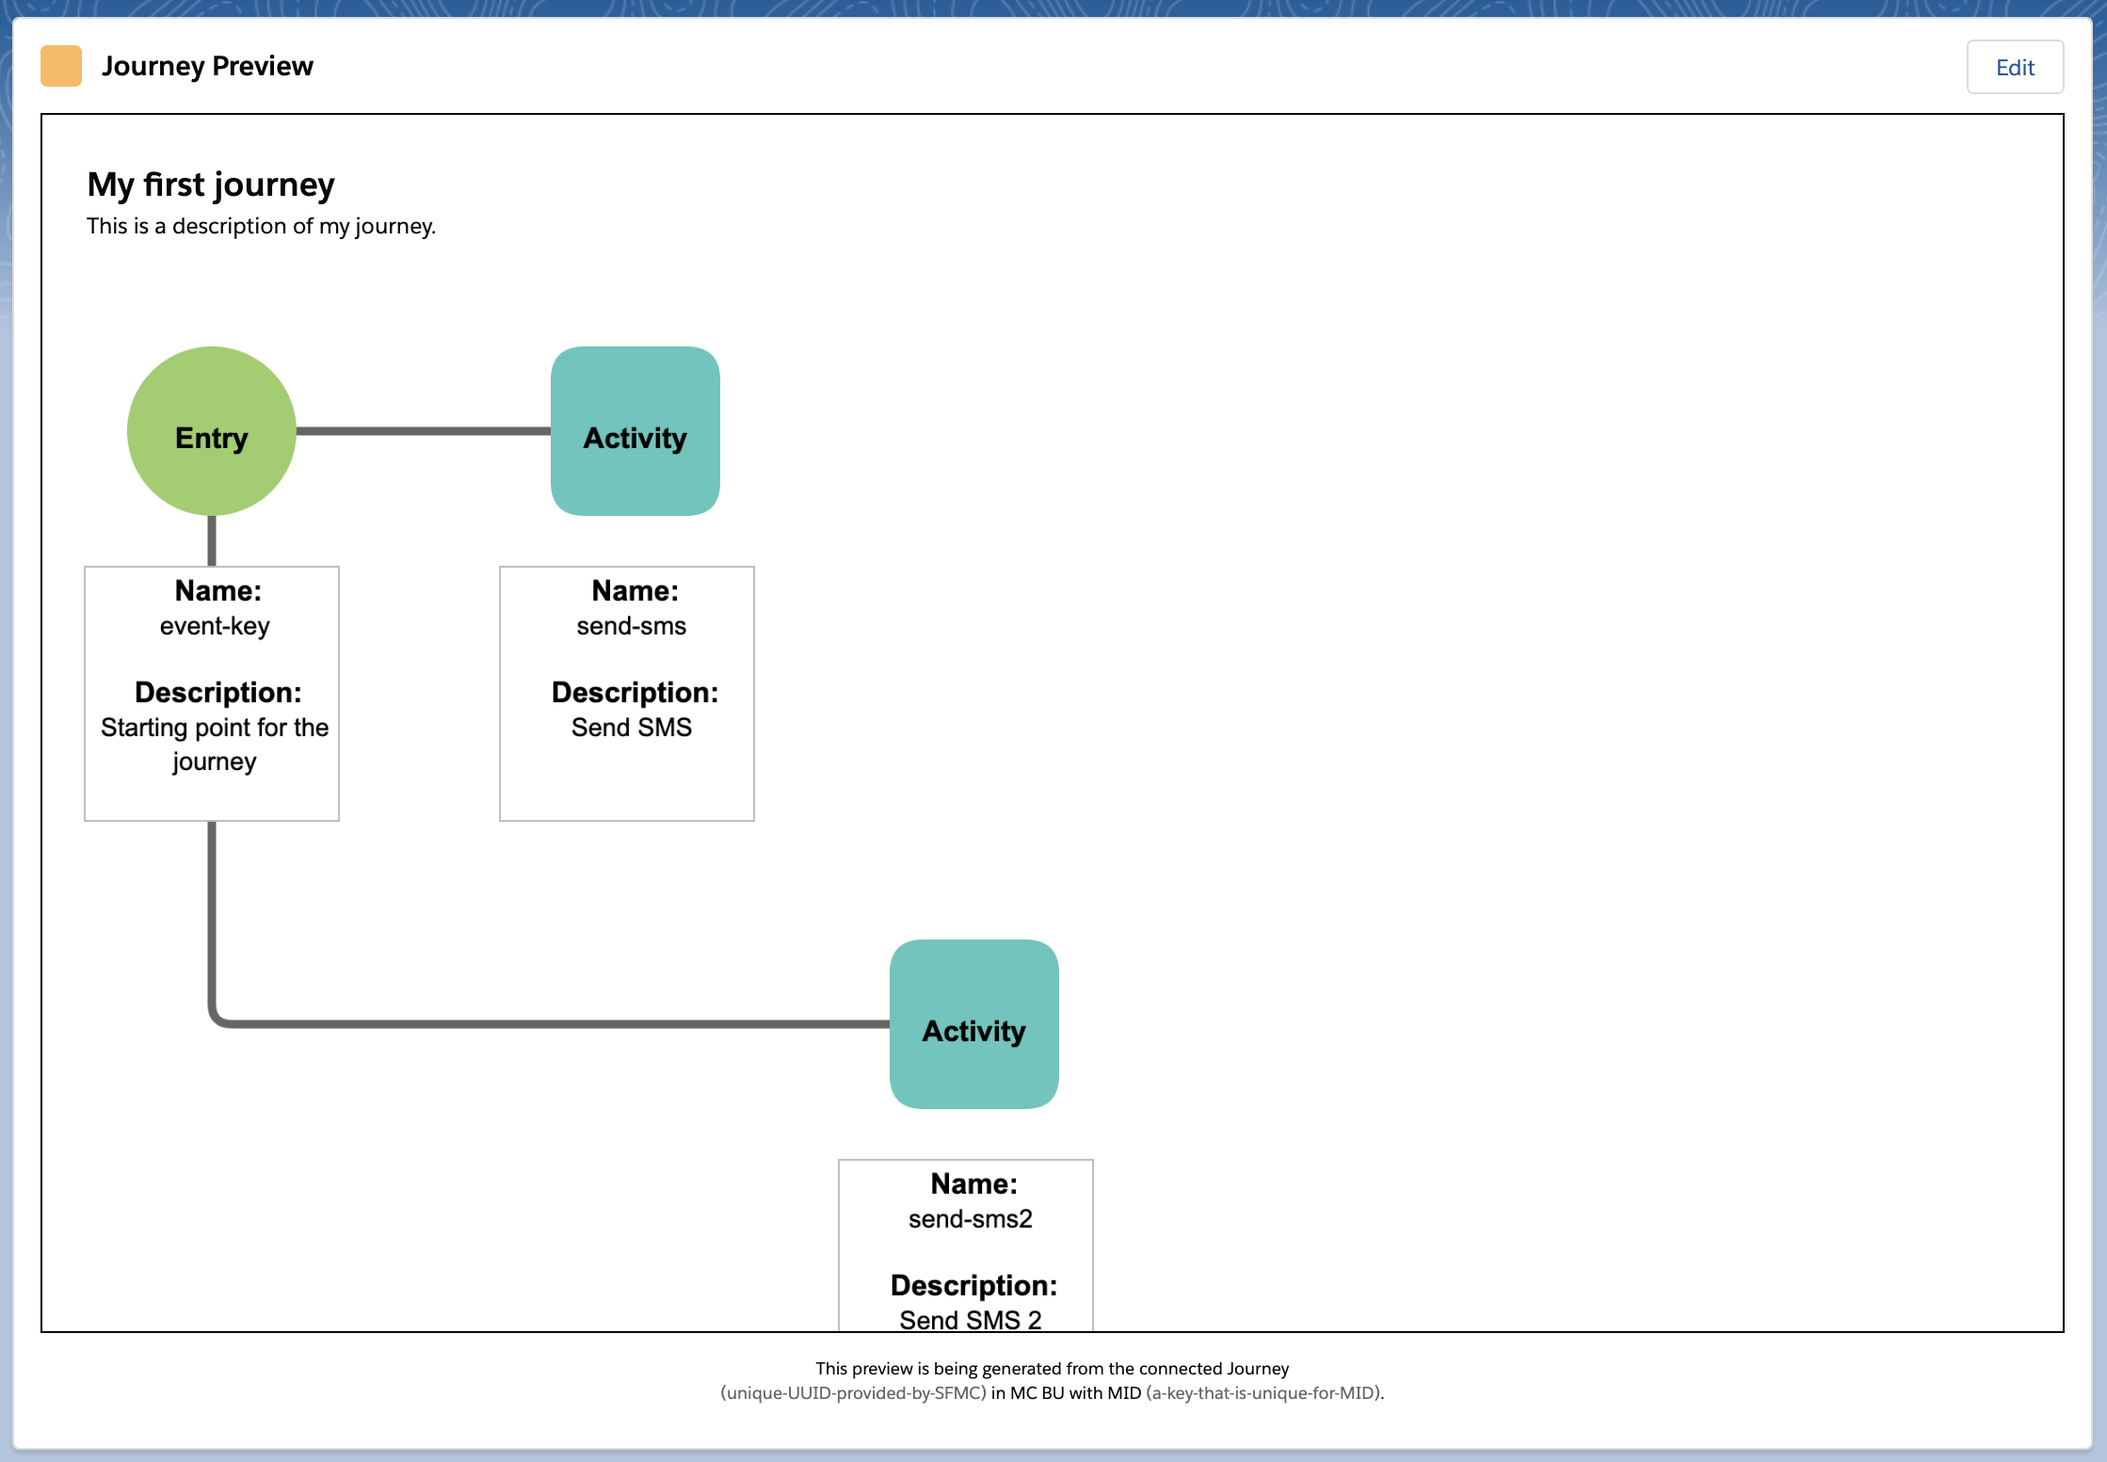
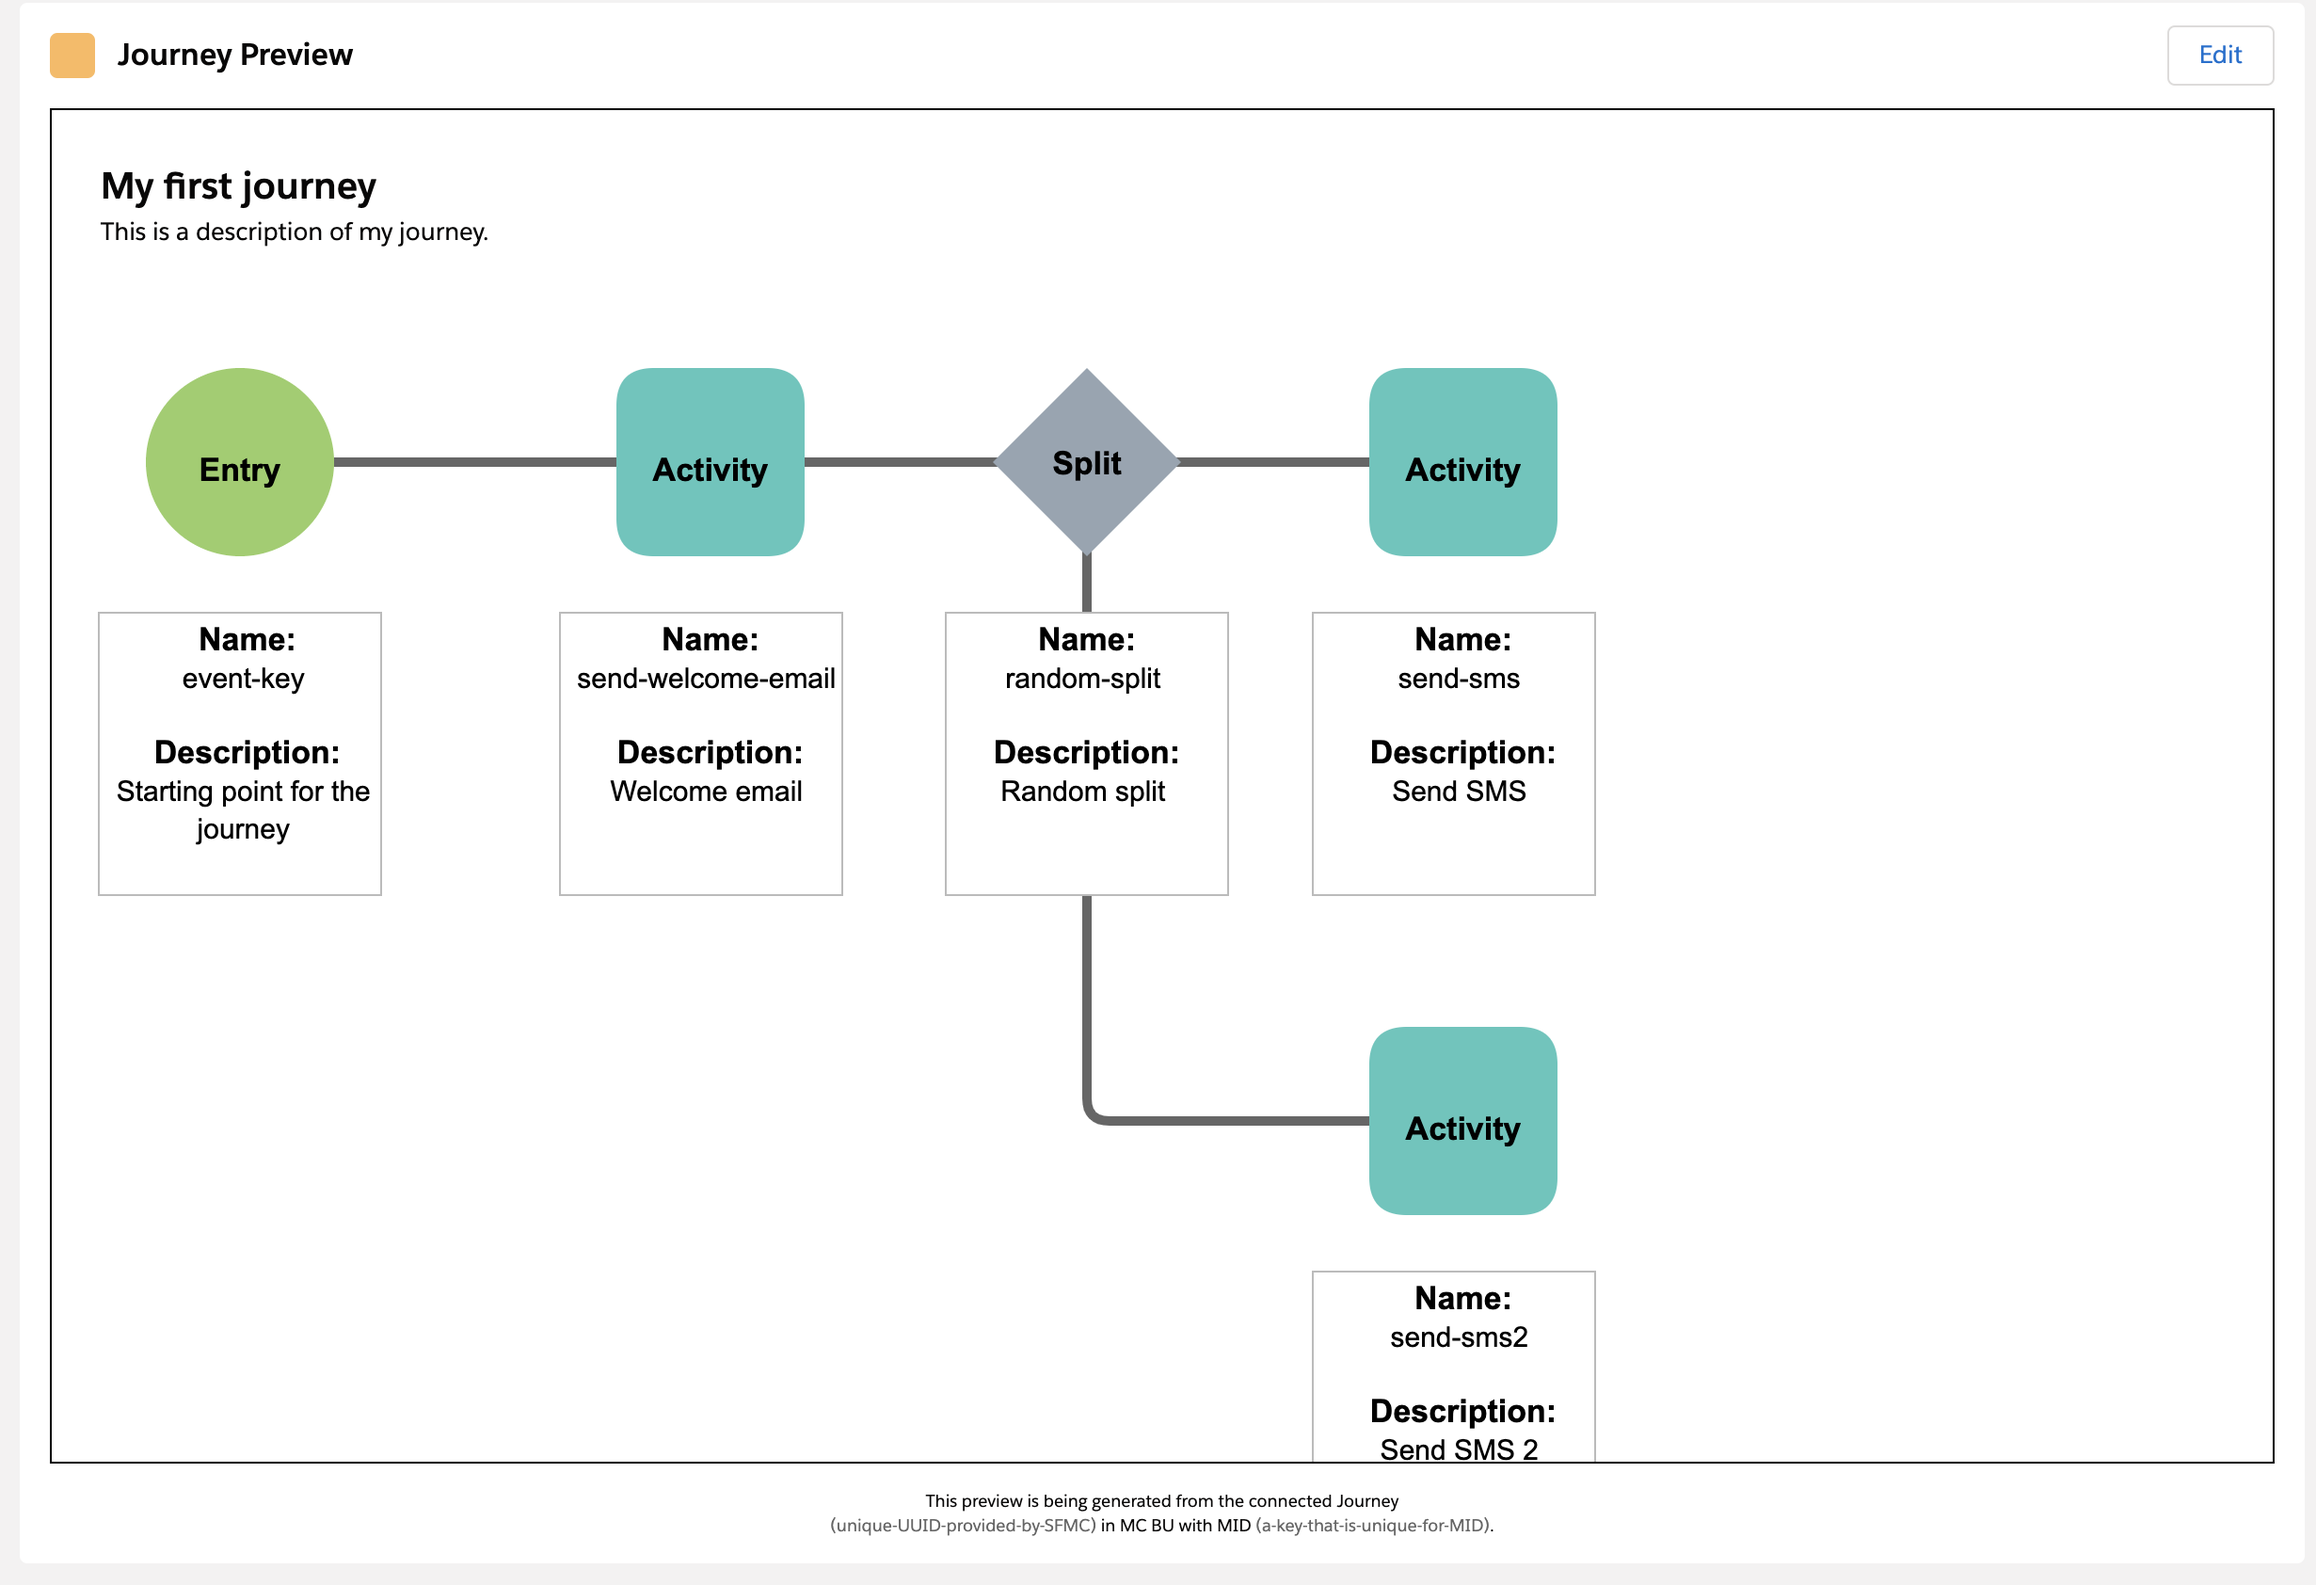
Finished branching logic

diff --git a/force-app/main/default/lwc/lwcJourneyBuilderPreview/lwcJourneyBuilderPreview.js b/force-app/main/default/lwc/lwcJourneyBuilderPreview/lwcJourneyBuilderPreview.js
@@ -365,6 +365,7 @@ export default class LwcJourneyBuilderPreview extends NavigationMixin(LightningE
 
         const connectorColor = "#666";
         const connectorWidth = 5;
+        const connectorRadius = 12;
 
         const eventEntryColor = '#97cf66';
         const activityEntryColor = '#52c7bc';
@@ -588,6 +589,10 @@ export default class LwcJourneyBuilderPreview extends NavigationMixin(LightningE
 
         //Connector type
         let connectorType = "straight";
+        let currentBranchDown = 0;
+
+        //Clear Drawn items
+        drawnPathItems.clear();
 
         //For each path...
         for (let currentPath of drawPaths) { 
@@ -604,16 +609,46 @@ export default class LwcJourneyBuilderPreview extends NavigationMixin(LightningE
                 let previousActivityX = eventList.get(previousActivityKey).x;
                 let previousActivityY = eventList.get(previousActivityKey).y;
 
+                let previousActivityType = currentPath[pathStep - 1].type;
+
+                console.log(drawnPathItems);
+
+                //Ensure we're not duplicating efforts, and if we are, move onto the next node
+                if (drawnPathItems.has(currentActivityKey)) { 
+                    console.log("Repeating a drawn activity, so skipping");
+                    continue; 
+                } else {
+                    drawnPathItems.set(currentActivityKey, currentPath[pathStep]);
+                }
+
                 //Debug
                 console.log ("Current Activity: " + currentActivityKey + " Previous Activity: " + previousActivityKey);
 
-                // Draw Connector between the two
-                let start = { "x": currentActivityX + shapeSize / 2 + shapePadding, "y": currentyActivityY + shapeSize / 2 };
-                let end = { "x": previousActivityX, "y": previousActivityY };
-                this.drawElbow(canvasContext, connectorType, start, end, 12, connectorColor, connectorWidth );
+                if (previousActivityType == "Event") {
+                    // Draw Elbow Connector between the two
+                    let start = { "x": currentActivityX + shapeSize / 2 + shapePadding, "y": currentyActivityY + shapeSize / 2 };
+                    let end = { "x": previousActivityX, "y": previousActivityY };
+                    this.drawElbow(canvasContext, connectorType, start, end, connectorRadius, connectorColor, connectorWidth );
+                    continue;
+                }
+
+                if (currentBranchDown >= 1) {
+                    // Draw Elbow Connector between the two
+                    let start = { "x": currentActivityX + shapeSize / 2 + shapePadding, "y": currentyActivityY + shapeSize / 2 };
+                    let end = { "x": previousActivityX, "y": previousActivityY + shapeSize / 2 };
+                    this.drawElbow(canvasContext, connectorType, start, end, connectorRadius, connectorColor, connectorWidth );
+                } else {
+                    // Draw Elbow Connector between the two
+                    let start = { "x": currentActivityX + shapeSize / 2, "y": currentyActivityY + shapeSize / 2};
+                    let end = { "x": previousActivityX, "y": previousActivityY + shapeSize / 2 };
+                    this.drawElbow(canvasContext, connectorType, start, end, connectorRadius, connectorColor, connectorWidth );
+                }
+
+                
             }
 
             connectorType = "bottomLeft";
+            currentBranchDown++;
         }
 
       }
@@ -676,7 +711,7 @@ export default class LwcJourneyBuilderPreview extends NavigationMixin(LightningE
         // middle elbow
         switch (type) {
             case "straight":
-                ctx.lineTo(start.x, end.y);
+                ctx.lineTo(start.x, start.y);
                 break;
             case "topLeft":
                 ctx.lineTo(start.x, end.y + cornerRadius);
